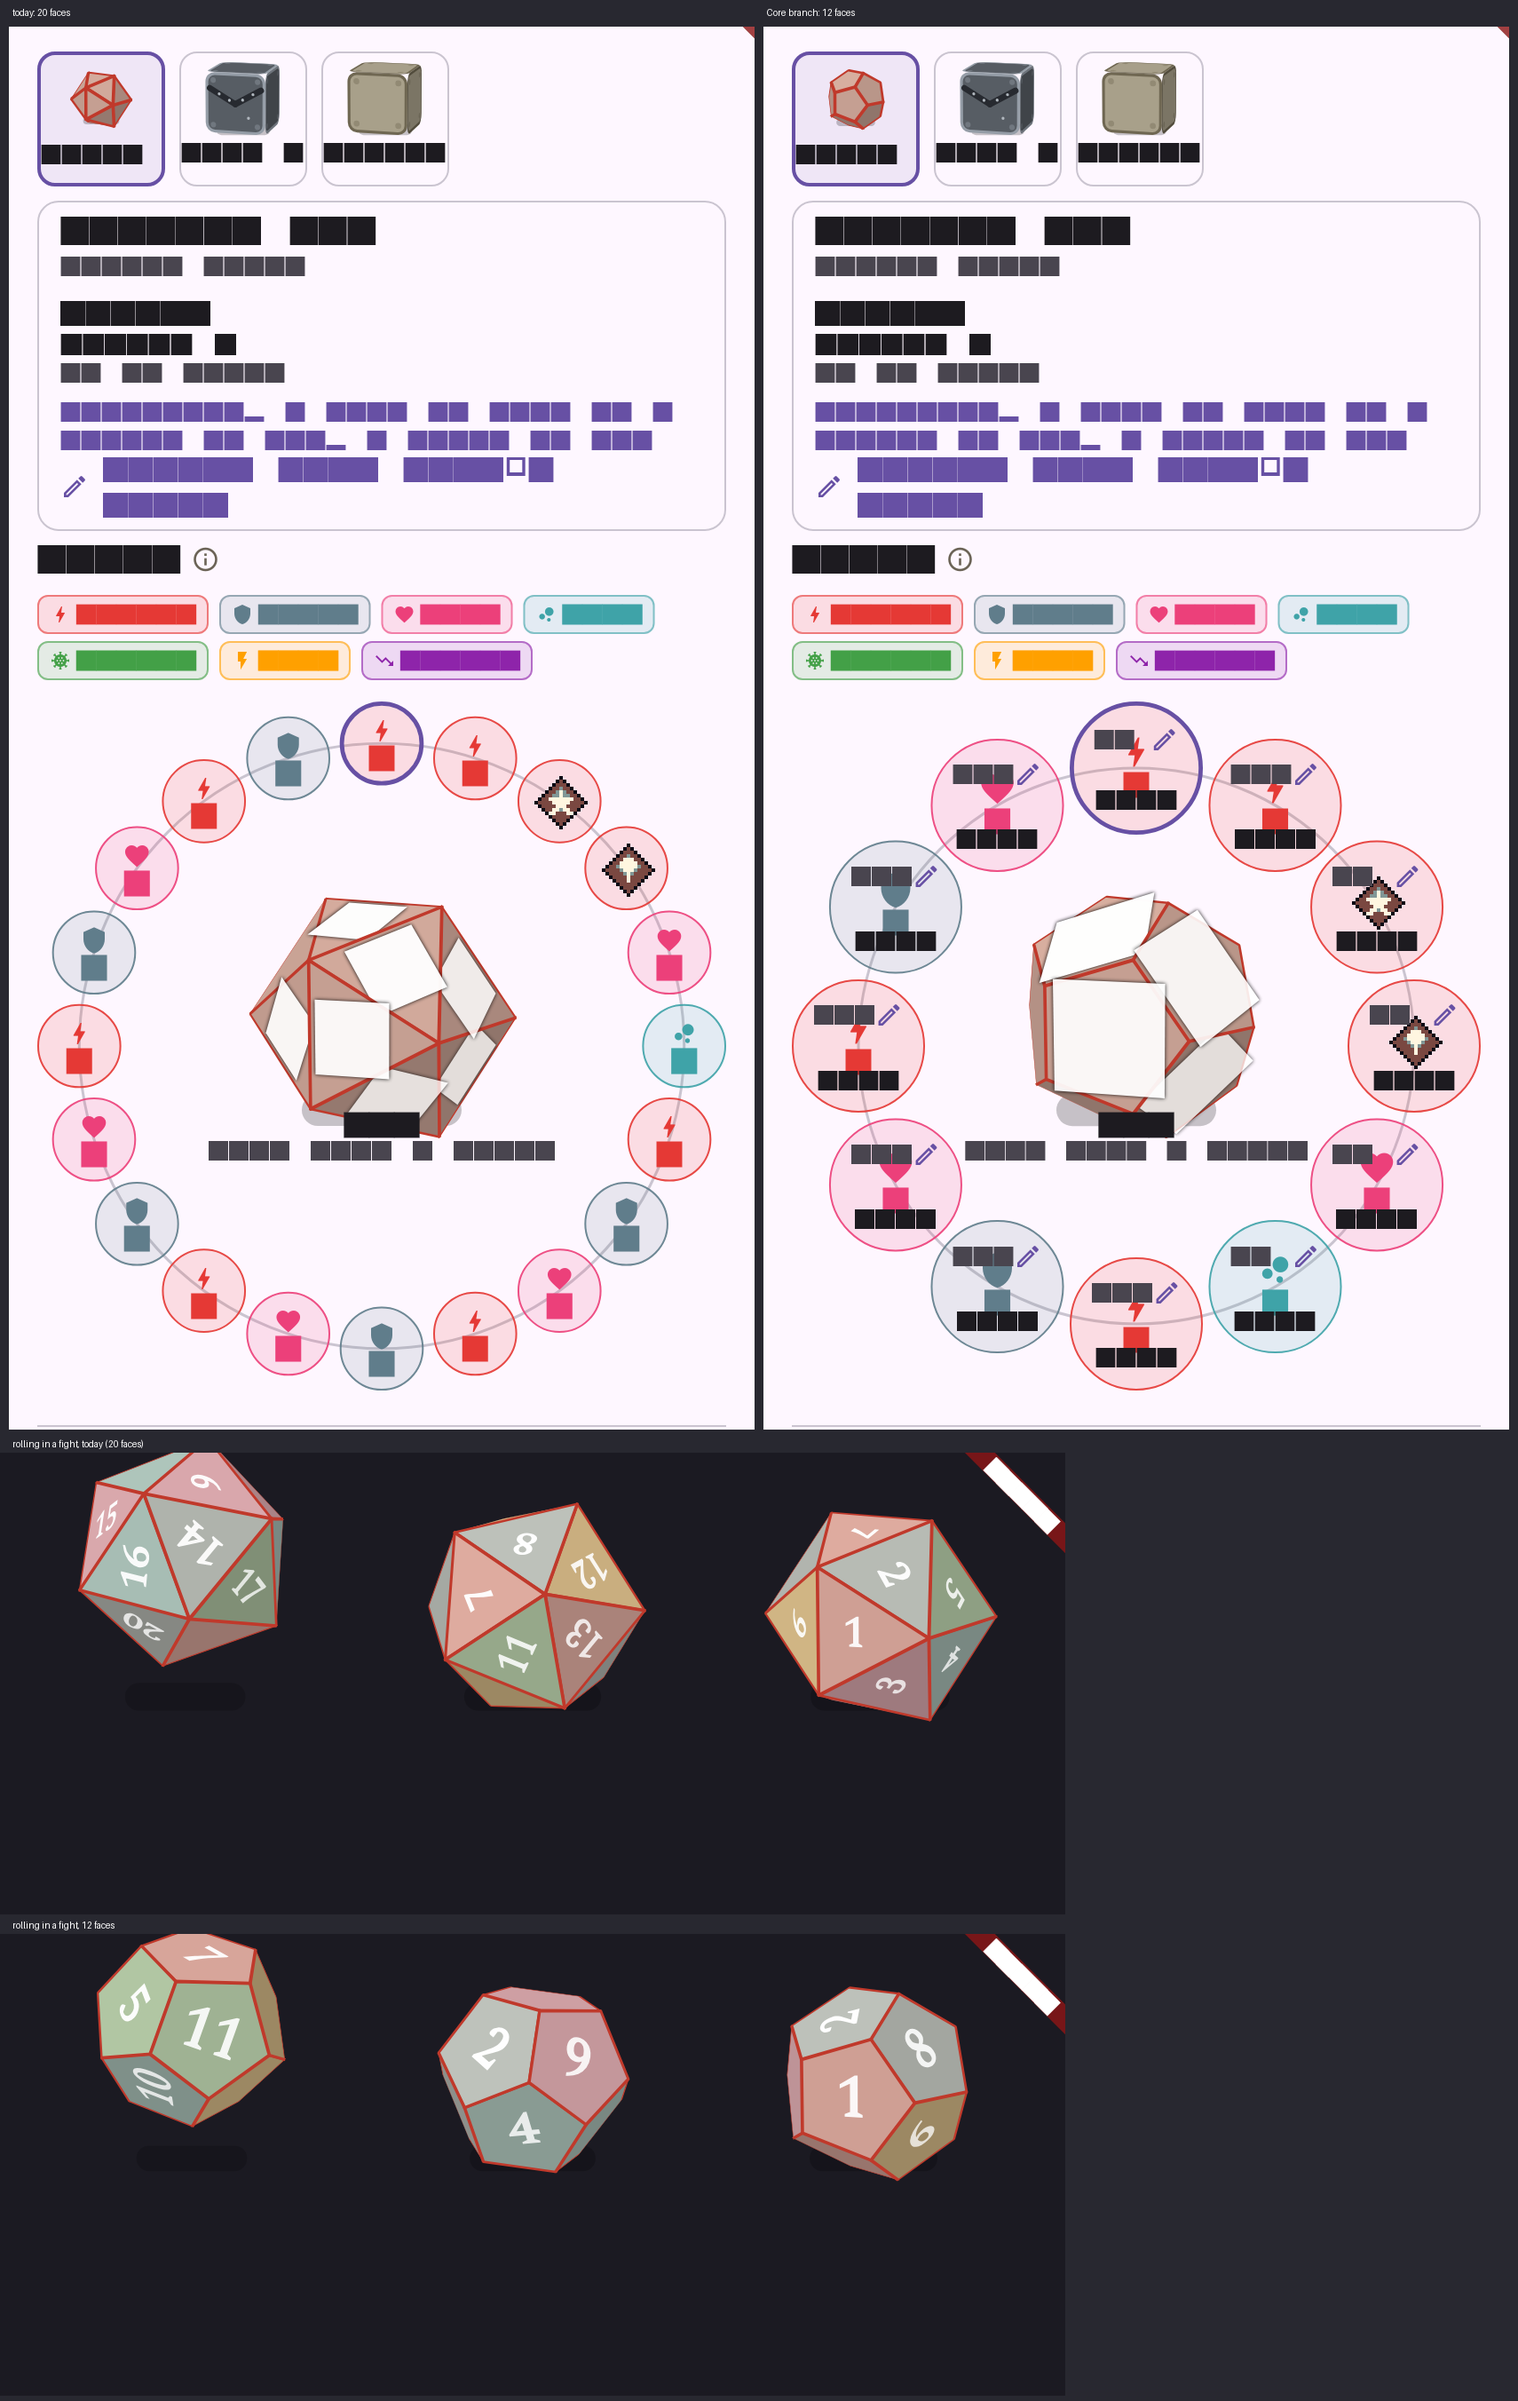
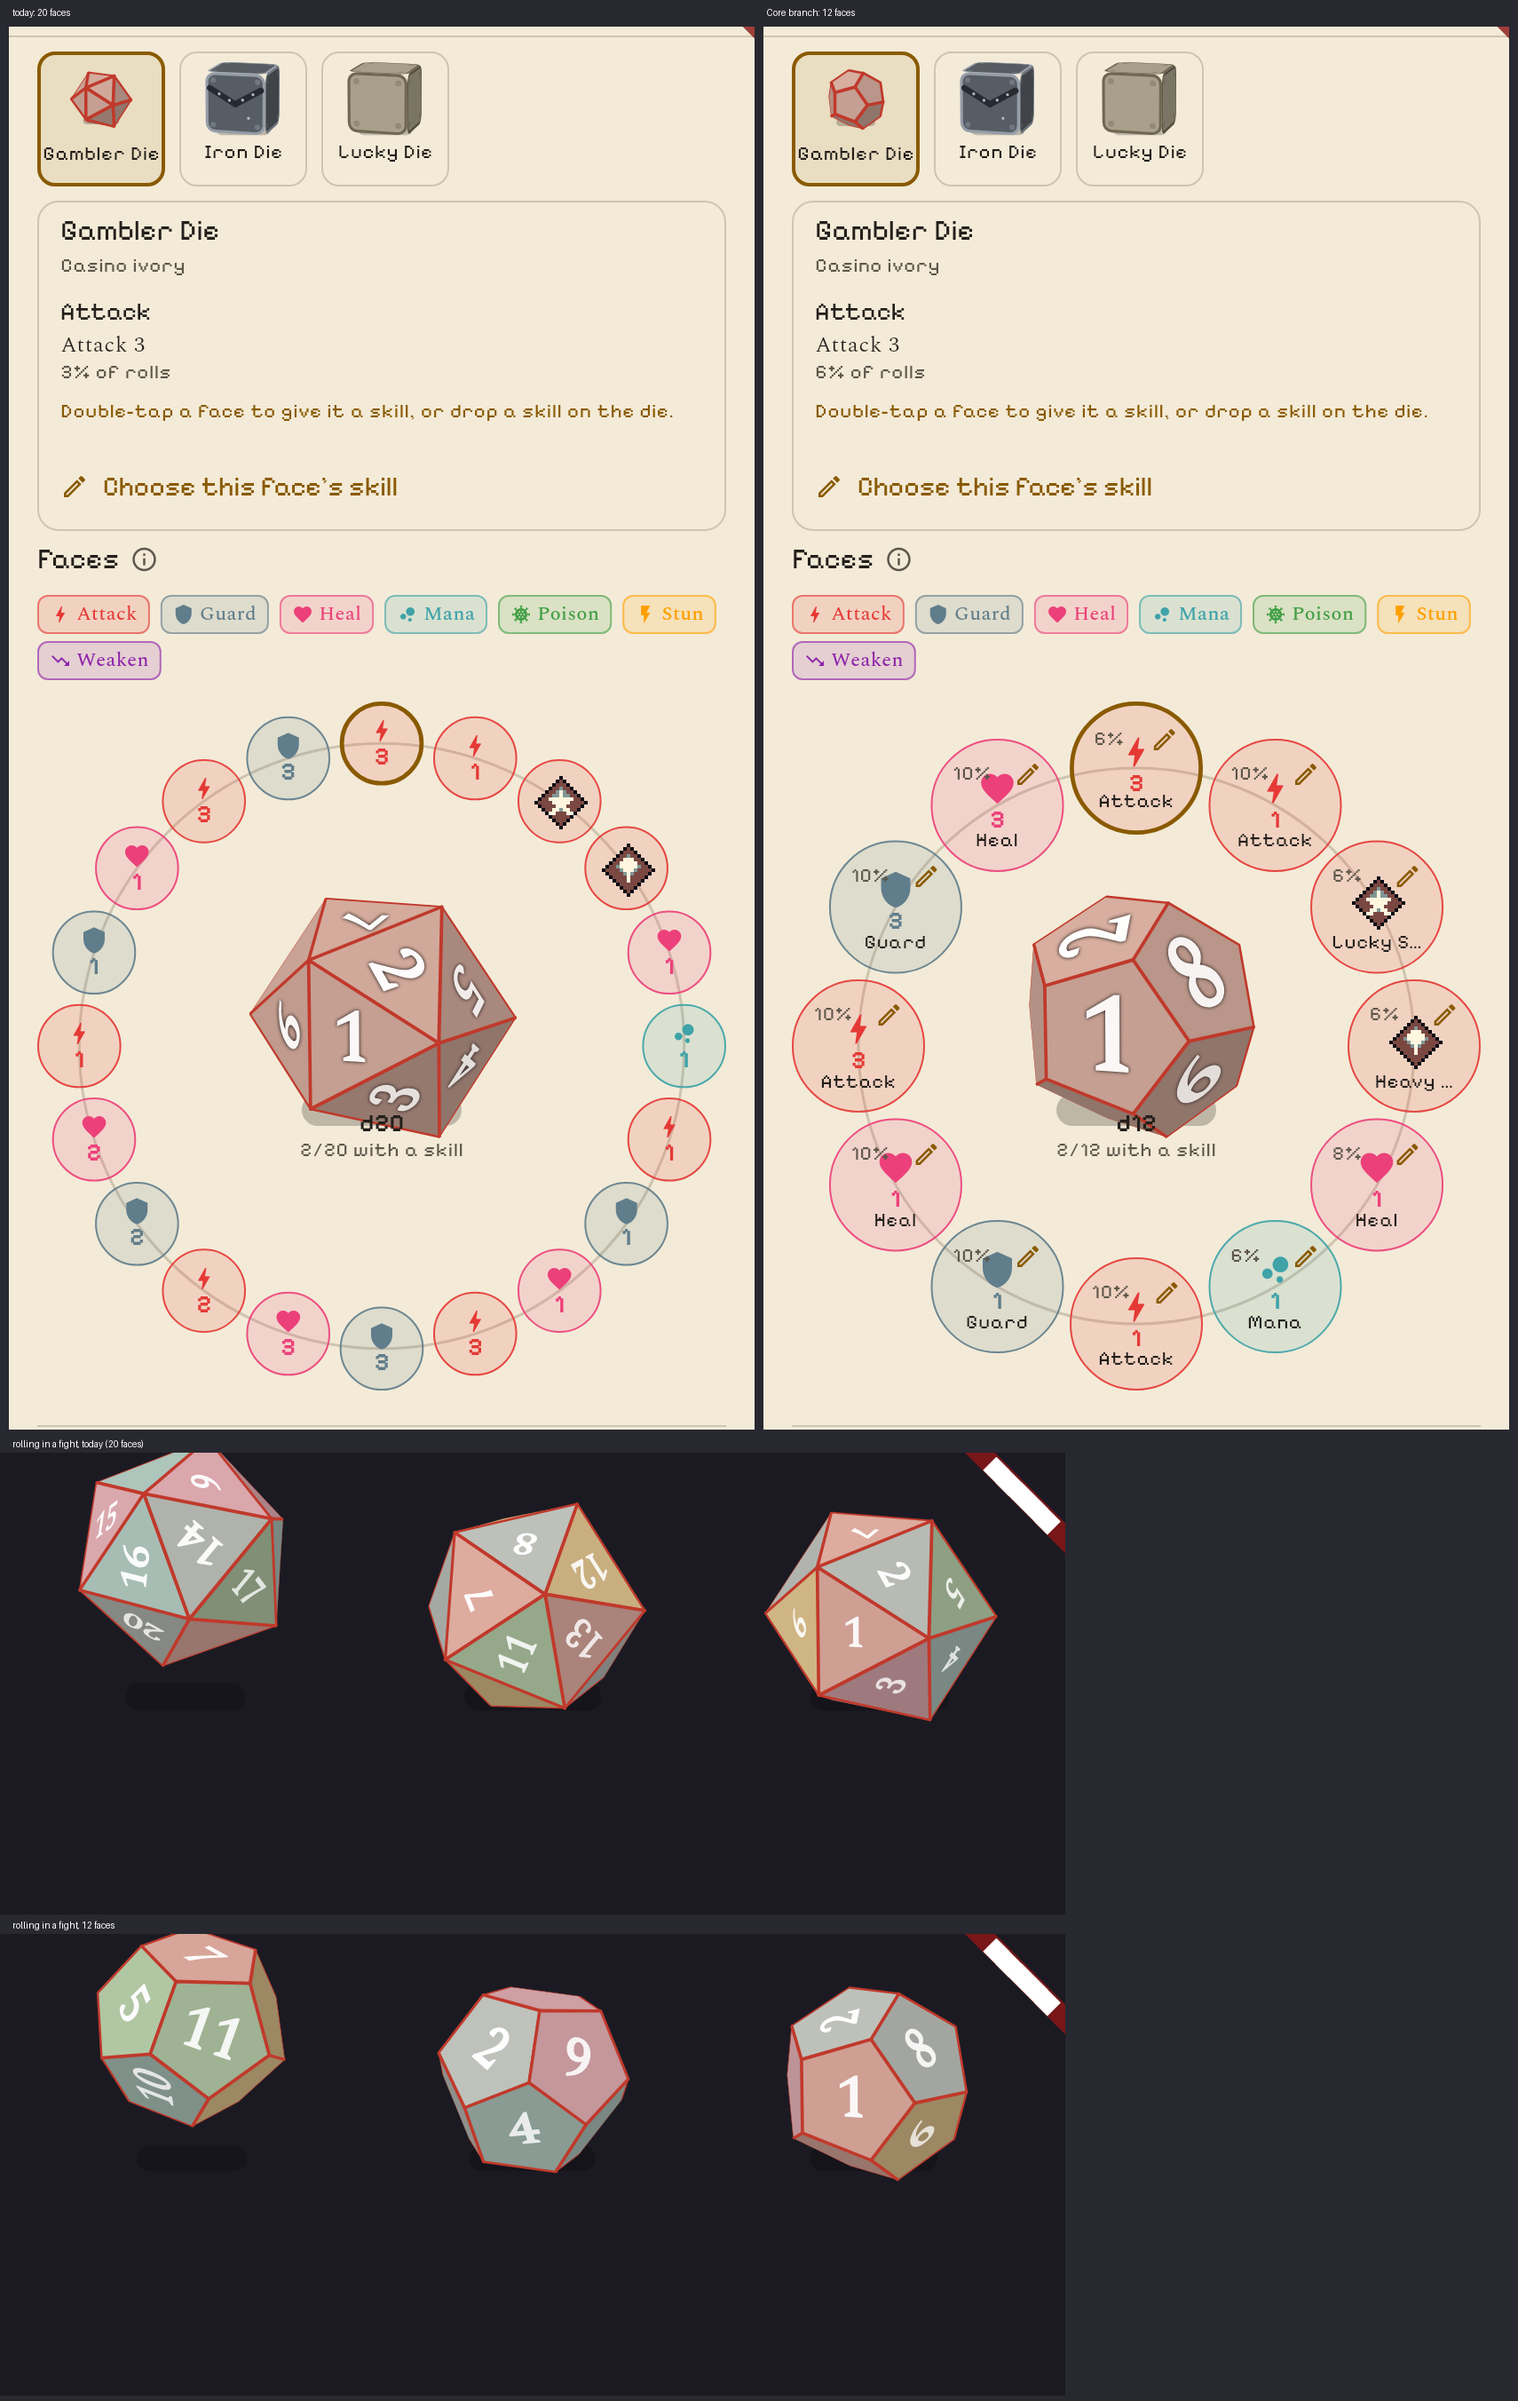
Gambler's Die sheet: the loadout row re-shot with the app's theme (text and facet numbers draw)
Claude-Session: https://claude.ai/code/session_019ETFw2Y7wpHSXWG5mmACty

diff --git a/test/ux_gambler_shots_test.dart b/test/ux_gambler_shots_test.dart
@@ -12,6 +12,7 @@ import 'package:flutter_riverpod/flutter_riverpod.dart';
 import 'package:flutter_test/flutter_test.dart';
 import 'package:shared_preferences/shared_preferences.dart';
 
+import 'package:narrative_data_app/providers/palette_provider.dart';
 import 'package:narrative_data_app/providers/player_session_provider.dart';
 import 'package:narrative_data_app/screens/dice_loadout_screen.dart';
 import 'package:narrative_data_app/theme/stitched_ink.dart';
@@ -30,9 +31,9 @@ void main() {
   testWidgets('the gambler die', skip: shots == null, (tester) async {
     TestDefaultBinaryMessengerBinding.instance.defaultBinaryMessenger
         .setMockMethodCallHandler(
-          const MethodChannel('flutter_tts'),
-          (call) async => 1,
-        );
+      const MethodChannel('flutter_tts'),
+      (call) async => 1,
+    );
     await tester.runAsync(loadAppFonts);
     final dice = jsonDecode(
       File('assets/gamedata/dice.json').readAsStringSync(),
@@ -46,7 +47,8 @@ void main() {
       late Uint8List bytes;
       await tester.runAsync(() async {
         final image = await b.toImage(pixelRatio: 2);
-        bytes = (await image.toByteData(format: ui.ImageByteFormat.png))!.buffer
+        bytes = (await image.toByteData(format: ui.ImageByteFormat.png))!
+            .buffer
             .asUint8List();
       });
       File('$shots/$name-$tag.png').writeAsBytesSync(bytes);
@@ -63,15 +65,17 @@ void main() {
         container: container,
         child: RepaintBoundary(
           key: key,
-          child: const MaterialApp(home: DiceLoadoutScreen()),
+          child: MaterialApp(
+              theme: buildAppTheme(container
+                  .read(appPaletteProvider)
+                  .schemeFor(Brightness.light)),
+              home: const DiceLoadoutScreen()),
         ),
       ),
     );
     await settleApp(tester);
     await tester.runAsync(
-      () => container
-          .read(playerSessionProvider.notifier)
-          .loadSession(
+      () => container.read(playerSessionProvider.notifier).loadSession(
             PlayerSession.fromJson({
               'raceId': 'dwarf',
               'professionId': 'warrior',
@@ -86,37 +90,37 @@ void main() {
 
     // Rolling at a fight's size, mid-roll and at rest.
     List<DieCubeFace> faces(int k) => [
-      for (var i = 0; i < k; i++)
-        DieCubeFace(
-          glyph: Text(
-            '${i + 1}',
-            style: const TextStyle(
-              color: Colors.white,
-              fontSize: 18,
-              fontWeight: FontWeight.w800,
+          for (var i = 0; i < k; i++)
+            DieCubeFace(
+              glyph: Text(
+                '${i + 1}',
+                style: const TextStyle(
+                  color: Colors.white,
+                  fontSize: 18,
+                  fontWeight: FontWeight.w800,
+                ),
+              ),
+              color: FaceKind.values[i % 6].color,
             ),
-          ),
-          color: FaceKind.values[i % 6].color,
-        ),
-    ];
+        ];
     final skin = dieSkinOf('gambler_die');
     final size = n == 12 ? 80.0 : 87.0;
     Widget die(double? roll) => SizedBox(
-      width: size * 2.1,
-      height: size * 2.1,
-      child: Center(
-        child: Die3D(
-          faces: faces(6),
-          facets: faces(n),
-          accent: skin.edge,
-          size: size,
-          shape: dieShapeOf(n),
-          skin: skin,
-          roll: roll == null ? null : AlwaysStoppedAnimation<double>(roll),
-          rolling: roll != null,
-        ),
-      ),
-    );
+          width: size * 2.1,
+          height: size * 2.1,
+          child: Center(
+            child: Die3D(
+              faces: faces(6),
+              facets: faces(n),
+              accent: skin.edge,
+              size: size,
+              shape: dieShapeOf(n),
+              skin: skin,
+              roll: roll == null ? null : AlwaysStoppedAnimation<double>(roll),
+              rolling: roll != null,
+            ),
+          ),
+        );
     final key2 = GlobalKey();
     usePhone(tester, const Size(600, 260));
     await tester.pumpWidget(
